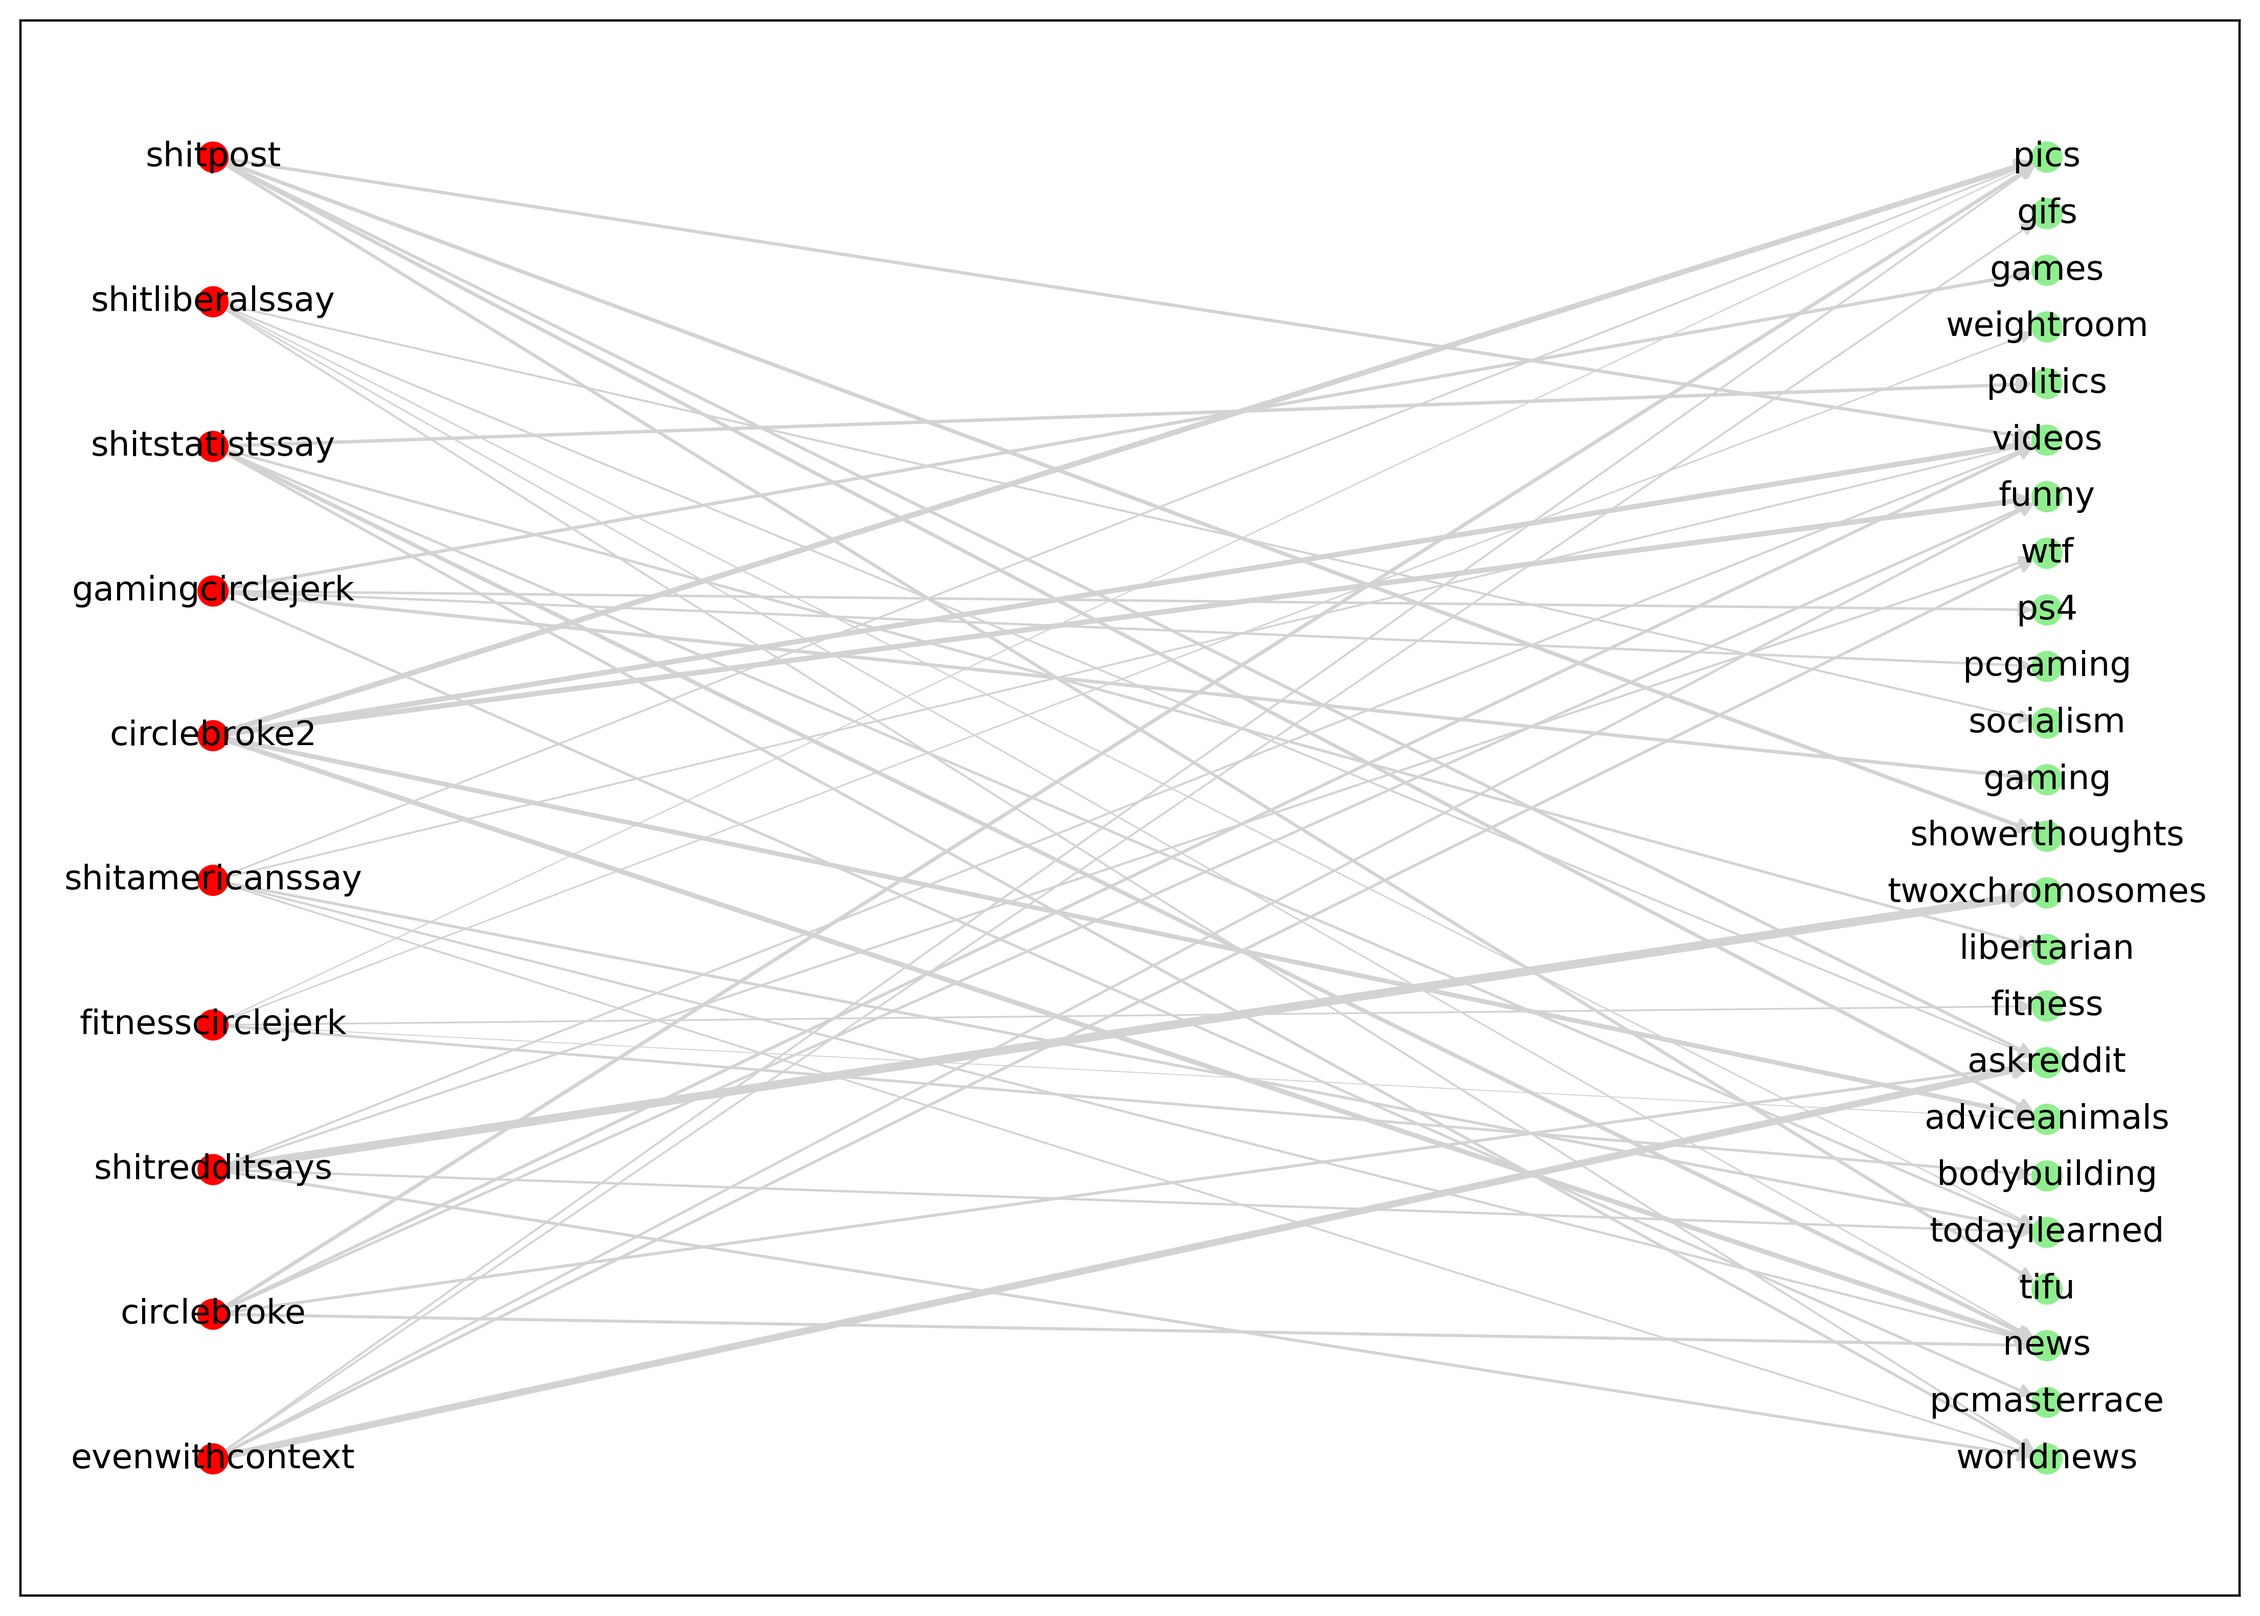
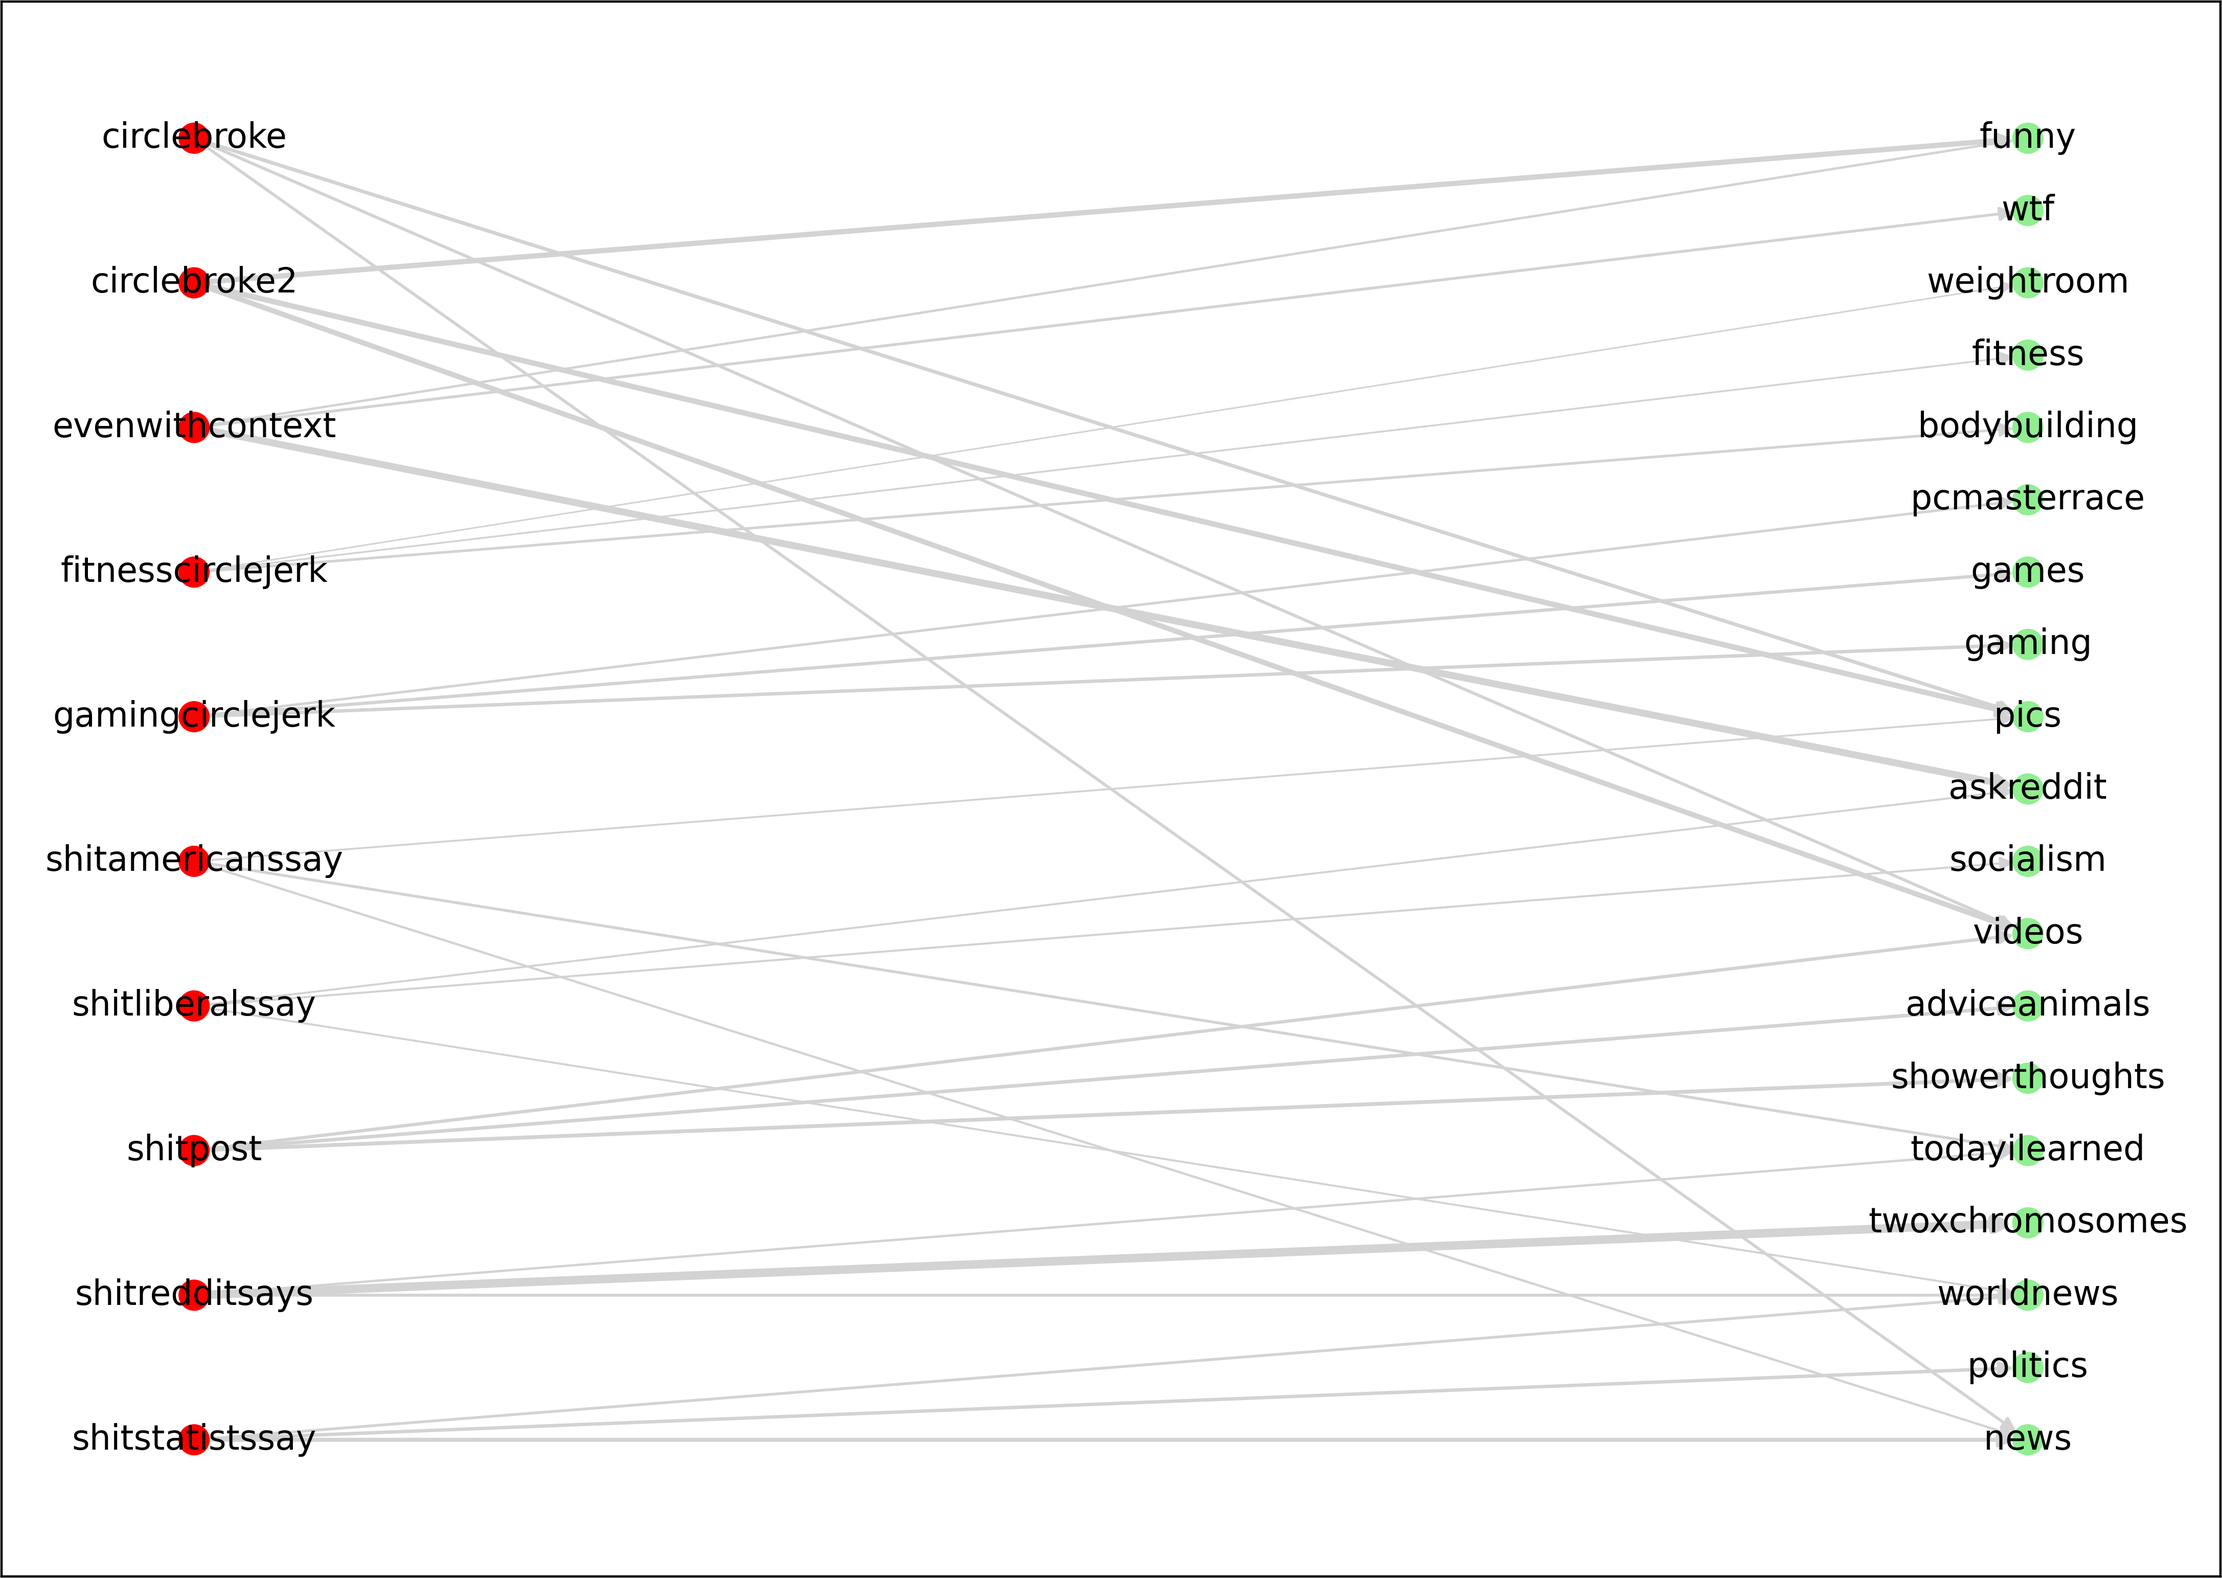
Updated bipartite graph

Changed region(s): [[0.0, 0.0, 1.0, 1.0], [0.3106, 0.1244, 0.5591, 0.1555], [0.4349, 0.1866, 0.4659, 0.2178]]

diff --git a/_includes/intro.md b/_includes/intro.md
@@ -1515,8 +1515,8 @@ A key pattern stands out:
 
 These communities behave almost like “commentary” or “parody” subreddits that take aim at mainstream Reddit spaces, not at humour-oriented neighbours.
 
-<div style="text-align:center; margin-top:20px;">
-  <img src="assets/img/cluster/bipartite_humor_memes_negative_links.png" width="85%" alt="Bipartite graph of negative links">
+<div style="text-align:center;">
+  <img src="assets/img/cluster/bipartite_humor_memes_negative_links.png" width="70%" alt="Bipartite graph of negative links">
   <div style="font-size:14px; text-align:center;"><em>Bipartite representation of negative links from a subset of Humour &amp; Memes subreddits (in red) to their targets (in green). For each of the source subreddits, we show only the top 5 subreddits to which they emit the most negative hyperlinks</em></div>
 </div> <br>
 
